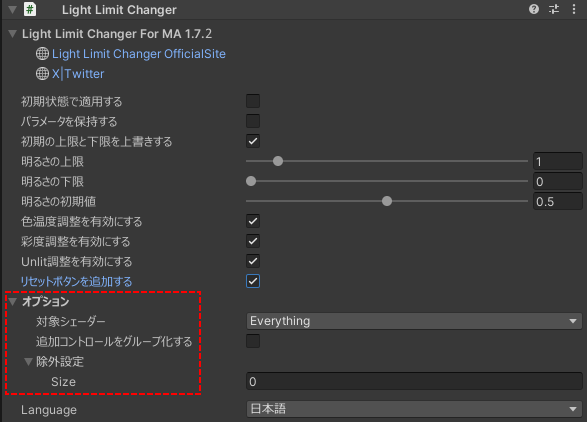
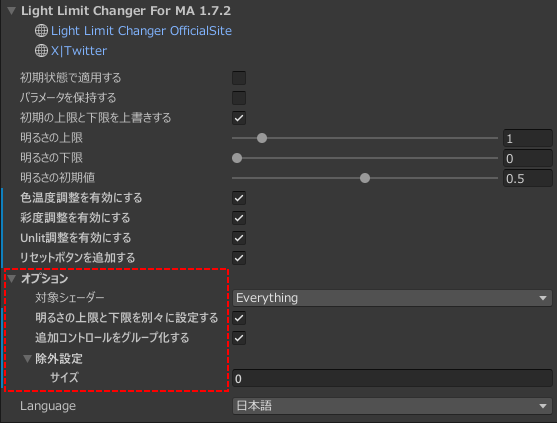
update to 1.7.3

diff --git a/docs/changelog.md b/docs/changelog.md
@@ -9,6 +9,12 @@ description: Light Limit Changerの更新履歴の一覧です。Github releases
 :::info
 更新履歴は[Github](https://github.com/Azukimochi/LightLimitChangerForMA/releases)及び、[X](https://twitter.com/search?q=from%3Aazukimochi25%20%23LightLimitChanger&src=typed_query&f=live)でも公開しています。
 :::
+
+### 1.7.3
+- オプションに明るさの下限・上限を分ける設定を追加 [設定項目の解説:オプションの設定項目](/docs/discription/disc_param#オプションの設定項目)
+- アイコンの解像度が低かった問題の修正
+- プレハブの互換性の問題の修正
+
 ### 1.7.2
 - オプションにメニュー階層化機能を追加 [設定項目の解説:オプションの設定項目](/docs/discription/disc_param#オプションの設定項目)
 - オプションに除外設定を追加 [基本的な使い方(1.7.0 以降):除外設定について(1.7.2~)](/docs/howtouse/howtouse-basic#除外設定について172)
